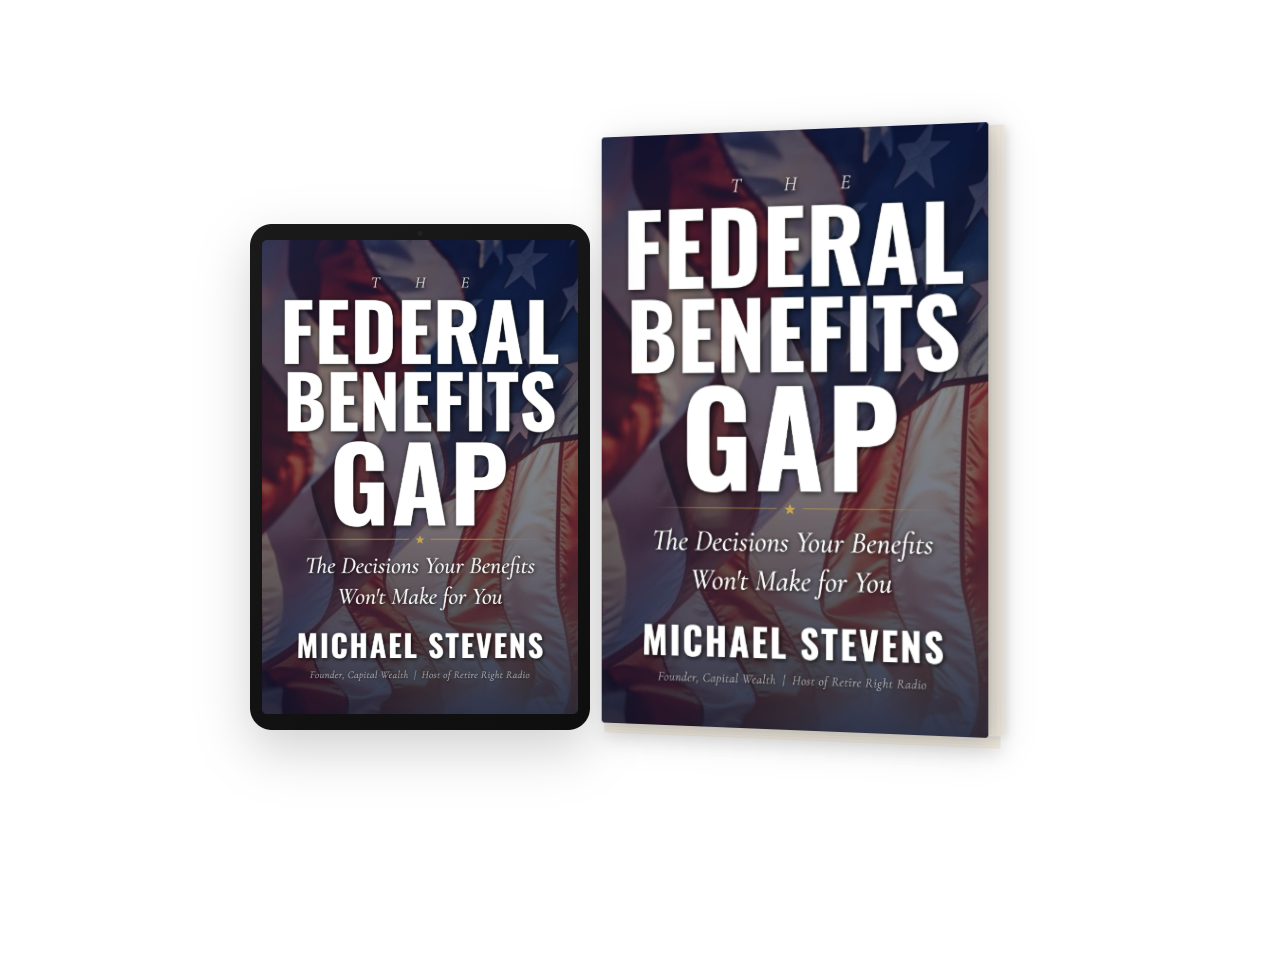
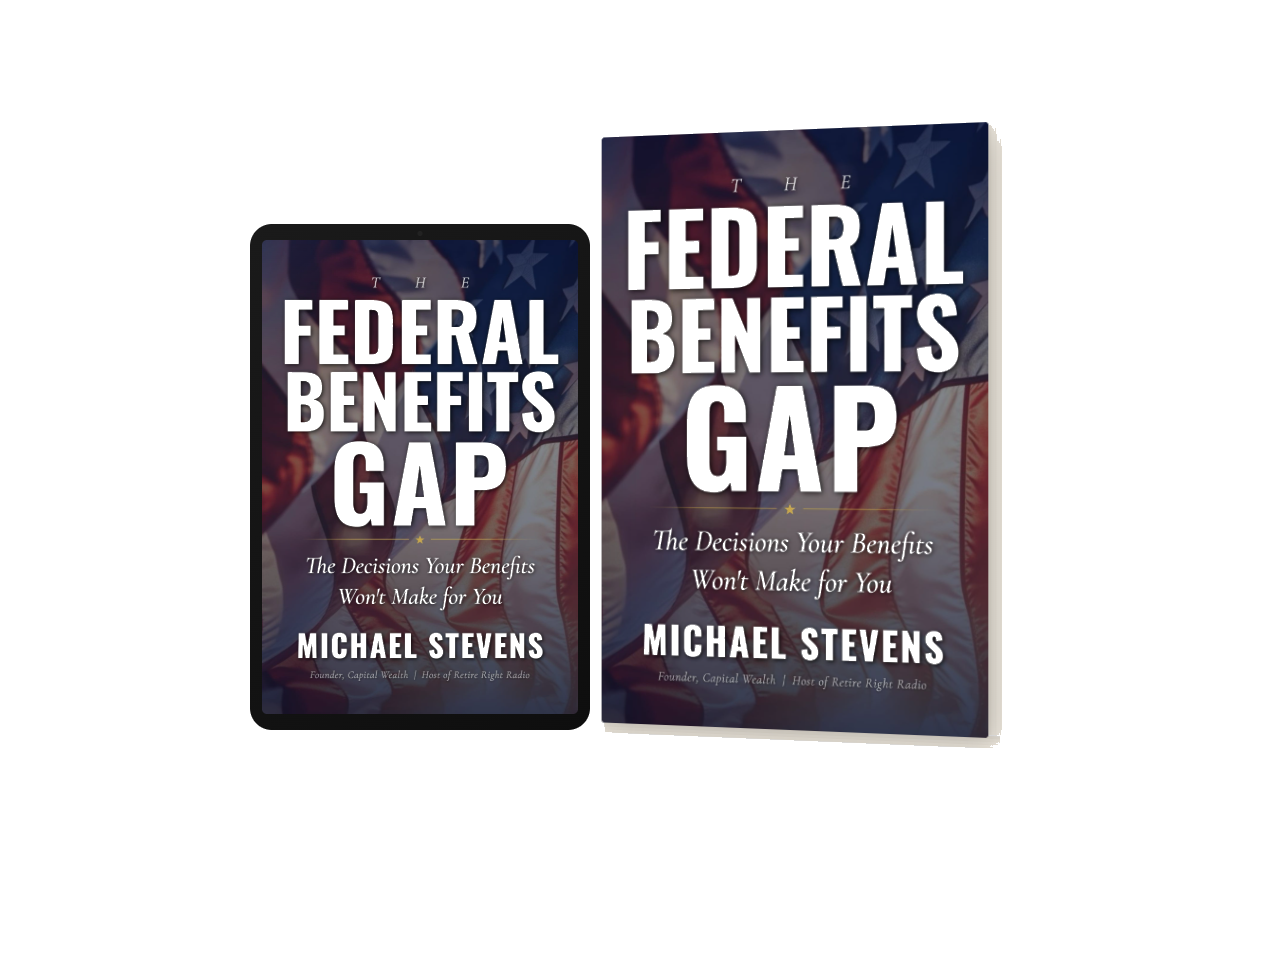
Bot Melvin: Remove white background from book mockup PNG, drop mix-blend-mode

Changed region(s): [[0.1875, 0.2789, 0.75, 0.7748], [0.7812, 0.124, 0.8125, 0.7438]]

diff --git a/src/css/style.css b/src/css/style.css
@@ -379,7 +379,7 @@ h1,h2,h3,h4,h5,h6 {
   max-height: 560px;
   transition: transform 0.5s cubic-bezier(0.4,0,0.2,1);
   filter: drop-shadow(0 20px 60px rgba(0,0,0,0.4));
-  mix-blend-mode: multiply;
+  /* transparent PNG — no blend mode needed */
   transform: rotate(-3deg);
 }
 
